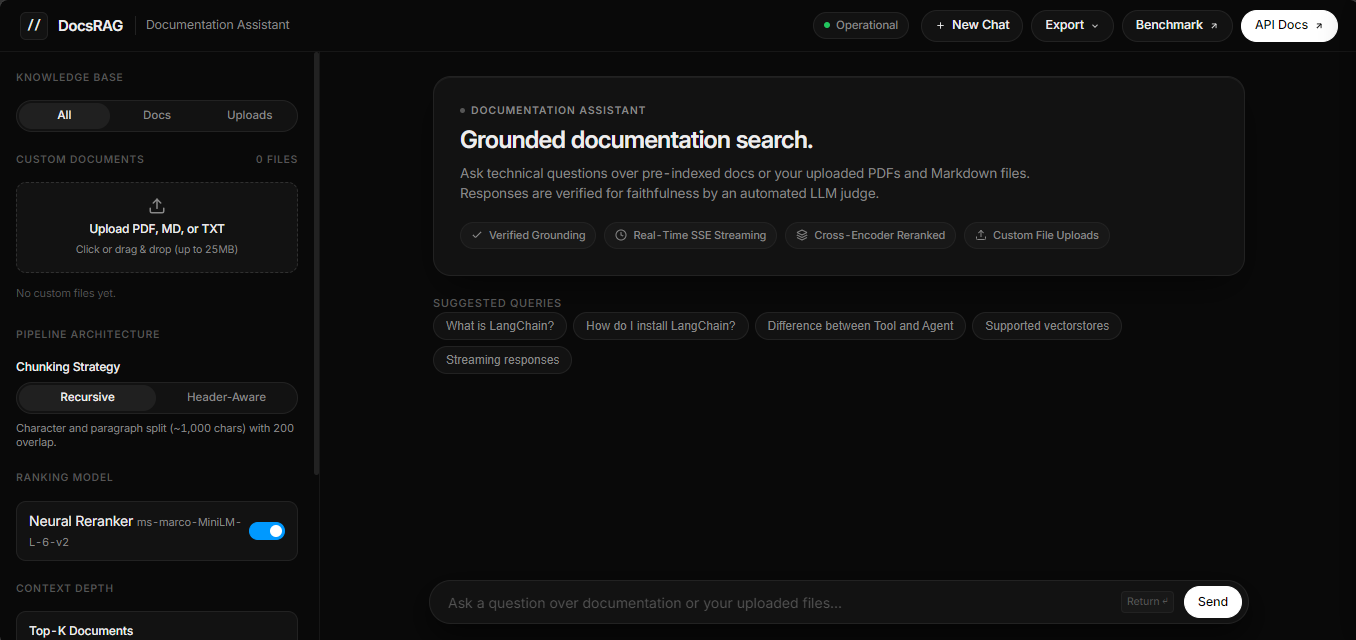
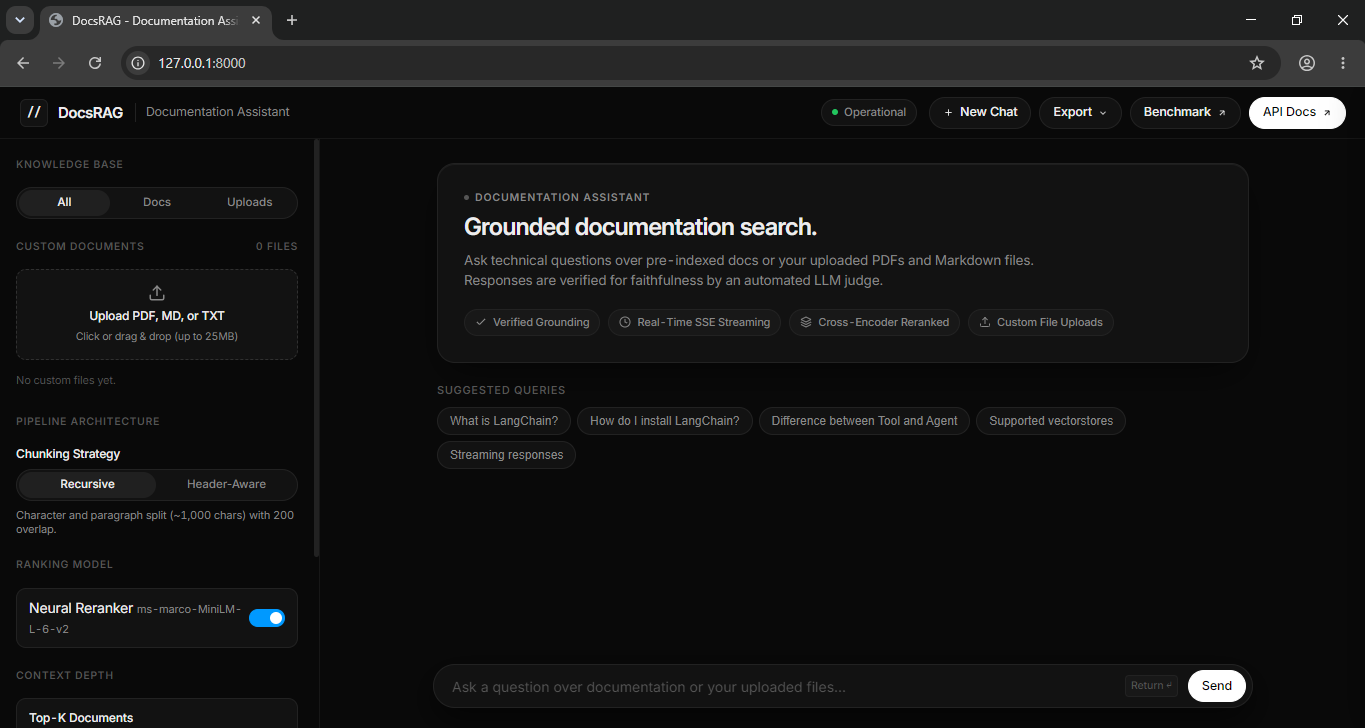
Update web UI title and refresh preview screenshot

diff --git a/src/api/index.html b/src/api/index.html
@@ -3,7 +3,7 @@
 <head>
   <meta charset="UTF-8">
   <meta name="viewport" content="width=device-width, initial-scale=1.0">
-  <title>DocsRAG — Documentation Assistant</title>
+  <title>DocsRAG - Documentation Assistant</title>
   <link rel="preconnect" href="https://fonts.googleapis.com">
   <link rel="preconnect" href="https://fonts.gstatic.com" crossorigin>
   <link href="https://fonts.googleapis.com/css2?family=Inter:ital,opsz,wght@0,14..32,100..900;1,14..32,100..900&family=JetBrains+Mono:wght@400;500;600&display=swap" rel="stylesheet">
